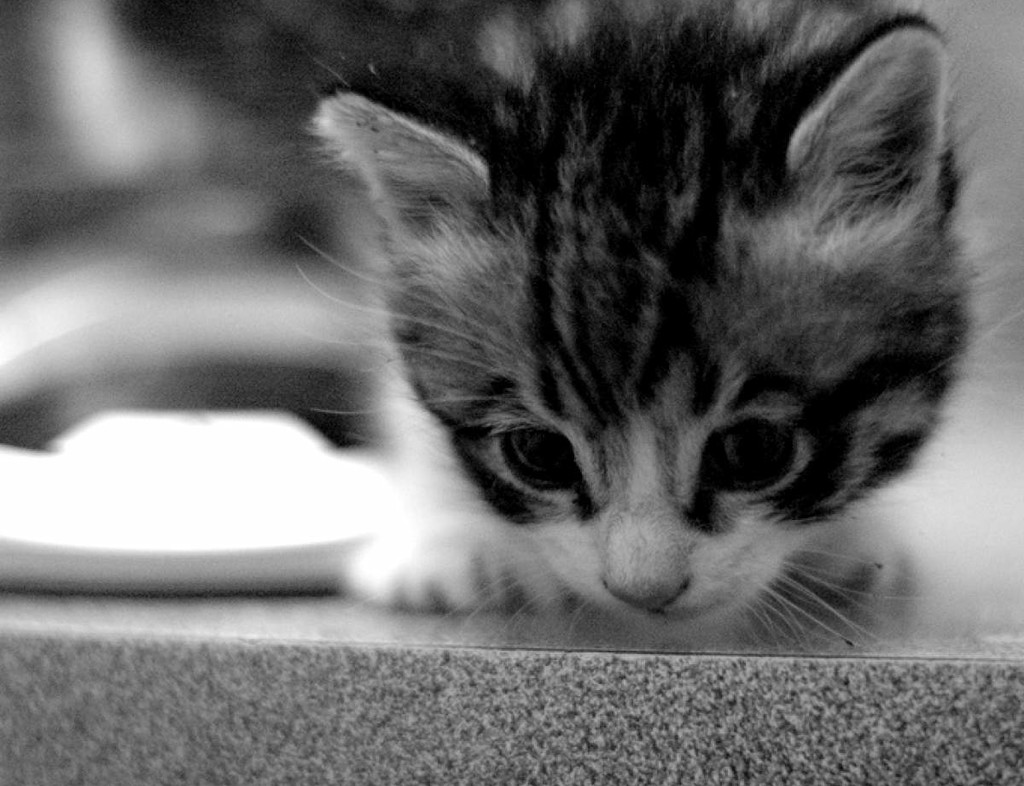
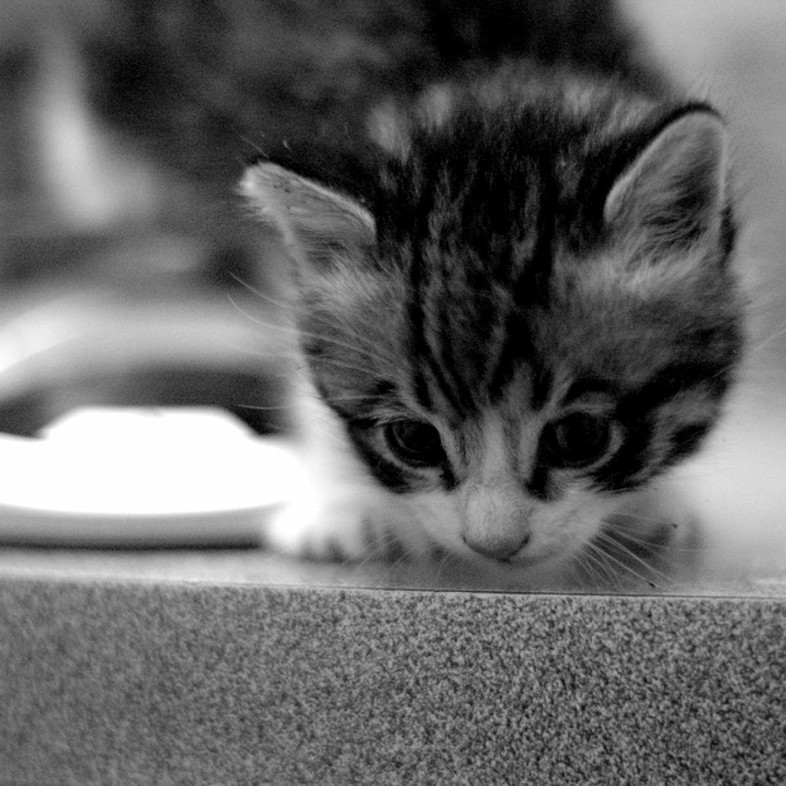
Ready for production

diff --git a/_includes/about.html b/_includes/about.html
@@ -1,7 +1,7 @@
 <div class="about">
     <h1 class="welcome">We are 25toLife</h1>
     <p class="info">
-        We are the Fall 2016 class of BUS 361 and our goal is to raise $30,000 for the Canadian Cancer Society. We met for the first time in September and now together we are striving to learn project management and contributing to something meaningful
+        We are the Fall 2016 class of BUS 361 and our goal is to raise <span style="color: #0079c2">$30,000</span> for the Canadian Cancer Society. We met for the first time in September and now together we are striving to learn project management and contributing to something meaningful
     </p>
     <div class="graphs">
         <div class="circle money-raised-graph" id="circle1">
@@ -10,7 +10,7 @@
         </div>
         <div class="circle number-of-events-graph" id="circle2">
             <strong></strong>
-            <p>Numbe Of Events Completed</p>
+            <p>Number Of Events Completed</p>
         </div>
         <div class="circle days-left" id="circle3">
             <strong></strong>

diff --git a/Gruntfile.js b/Gruntfile.js
@@ -64,12 +64,12 @@ module.exports = function(grunt) {
                       name: "medium",
                       width: '1024px',
                       height: '786px',
-                      aspectRatio: false
+                      aspectRatio: true
                   }, {
                       name: "small",
                       width: '640',
                       height: '480',
-                      aspectRatio: false
+                      aspectRatio: true
                   }],
                   quality: 90
               },
